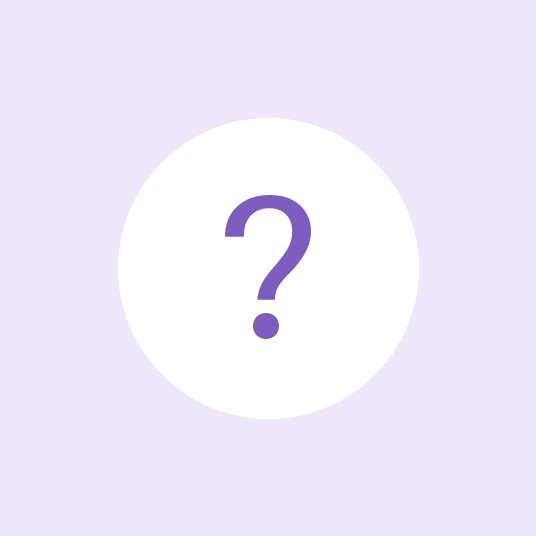
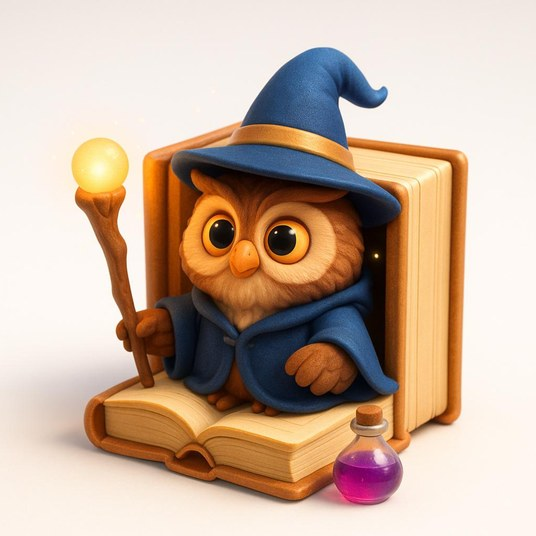
トイモンの画像を設定、マナブー（05）とモテナン（06）を追加
Claude-Session: https://claude.ai/code/session_01YJfFiRqoRtsksZasJj6Zdz

diff --git a/_posts/2026-11-21-hello.md b/_posts/2026-11-21-hello.md
@@ -19,6 +19,8 @@ HR Monster では、スキルを得意技として持つモンスターたちが
 - **ヌケモン**：抜け漏れを見逃さないTODOサポーター
 - **ココロン**：志を聞いて、目標づくりを支えるコーチ
 - **トイモン**：研修の本質を考える哲学者
+- **マナブー**：学びを形にする研修開発の職人
+- **モテナン**：最高の研修体験をつくるおもてなし上手
 
 モンスターはこれからも増えていきます。
 

diff --git a/_monsters/motenan.md b/_monsters/motenan.md
@@ -1,0 +1,12 @@
+---
+key: motenan
+no: "06"
+title: モテナン
+role_en: LEARNING HOST
+catch: 最高の研修体験をつくるおもてなし上手
+desc: みんなが安心して学べるように、いつも気配りを忘れない。受講者の小さな不安にもすぐ気づく、優しいモンスター。
+origin: おもてなし＋かわいい響き
+specialties: [受講案内, 事前準備, 当日運営, 受講体験の改善]
+image: /assets/img/monsters/motenan.jpg
+color: yellow
+---

diff --git a/_monsters/manaboo.md b/_monsters/manaboo.md
@@ -1,0 +1,12 @@
+---
+key: manaboo
+no: "05"
+title: マナブー
+role_en: TRAINING DEVELOPER
+catch: 学びを形にする研修開発の職人
+desc: アイデアを具体的なプログラムに変えるのが大好き。受講者が「なるほど！」と感じる瞬間をつくるため、工夫を惜しまない。
+origin: 学ぶ＋ブー
+specialties: [カリキュラム, スライド, 演習, 講師ガイドの開発]
+image: /assets/img/monsters/manaboo.jpg
+color: mint
+---
